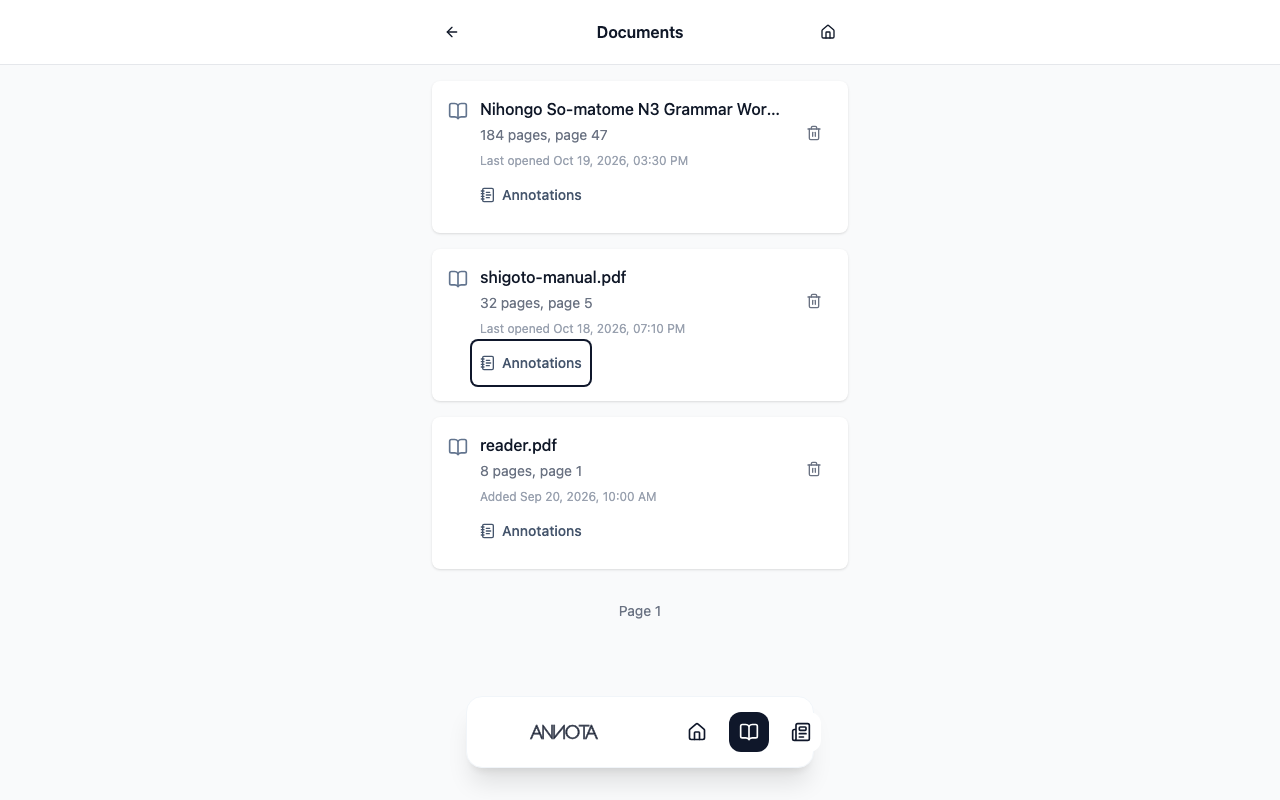
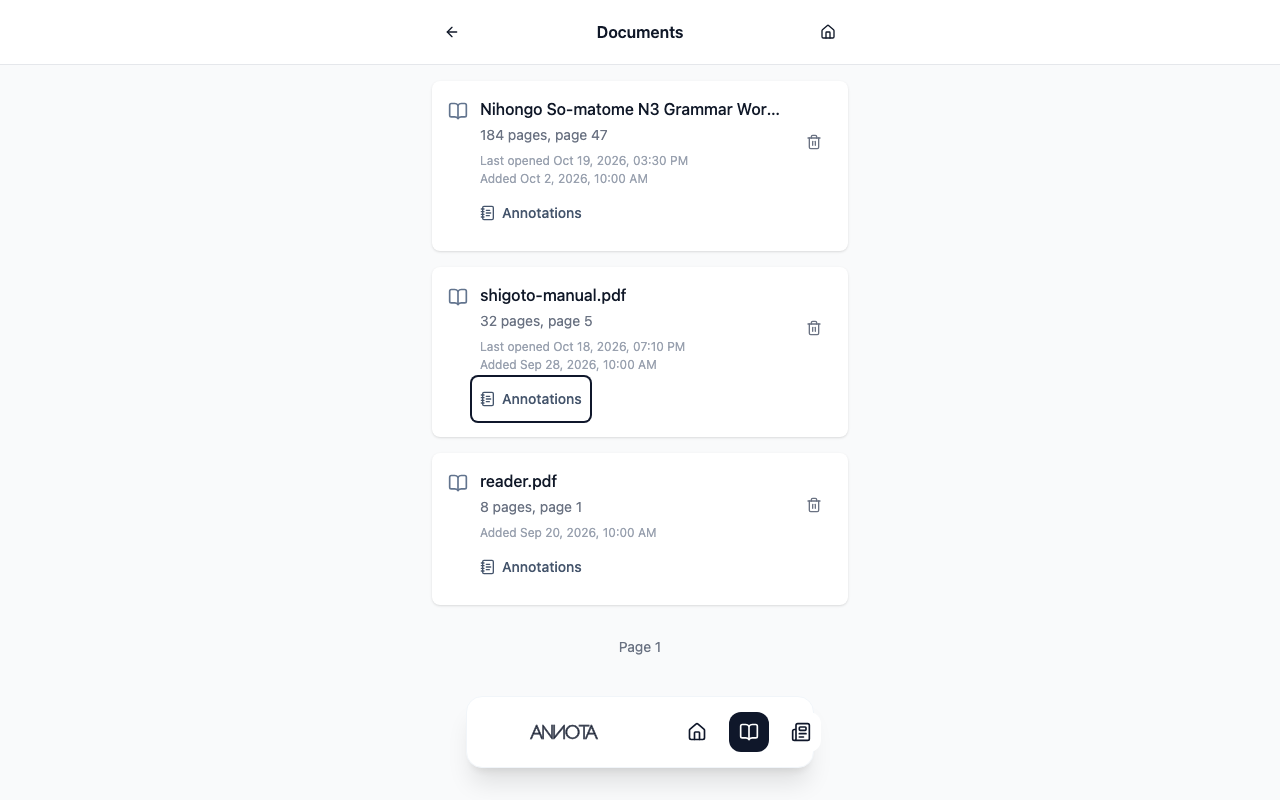
fix: show both created and last-opened dates in the library (#23)
Review R1 on PR #74: the library row showed last opened or created, never
both, so the PRD metadata item was not met. Record last_opened_at on open
as a #23 follow-up after #40 merges.

diff --git a/web/src/pages/DocumentsPage.tsx b/web/src/pages/DocumentsPage.tsx
@@ -88,8 +88,9 @@ export default function DocumentsPage() {
                       <span className="mt-1 block text-sm text-gray-500">
                         {doc.pageCount} pages, page {doc.lastPageNumber || 1}
                       </span>
-                      <span className="mt-2 block text-xs text-gray-400">
-                        {doc.lastOpenedAt ? `Last opened ${formatDate(doc.lastOpenedAt)}` : `Added ${formatDate(doc.createdAt)}`}
+                      <span className="mt-2 block space-y-0.5 text-xs text-gray-400">
+                        {doc.lastOpenedAt && <span className="block">Last opened {formatDate(doc.lastOpenedAt)}</span>}
+                        <span className="block">Added {formatDate(doc.createdAt)}</span>
                       </span>
                     </span>
                   </button>

diff --git a/web/src/pages/__tests__/DocumentsPage.test.tsx b/web/src/pages/__tests__/DocumentsPage.test.tsx
@@ -21,6 +21,7 @@ vi.mock('@/hooks/useDocument', () => ({
           filename: 'reader.pdf',
           pageCount: 8,
           lastPageNumber: 3,
+          lastOpenedAt: '2026-02-10T00:00:00Z',
           createdAt: '2026-02-09T00:00:00Z',
           updatedAt: '2026-02-09T00:00:00Z',
         },
@@ -44,6 +45,8 @@ describe('DocumentsPage', () => {
     expect(screen.getByText('Documents')).toBeInTheDocument()
     expect(screen.getByText('reader.pdf')).toBeInTheDocument()
     expect(screen.getByText('8 pages, page 3')).toBeInTheDocument()
+    expect(screen.getByText(/^Last opened /)).toBeInTheDocument()
+    expect(screen.getByText(/^Added /)).toBeInTheDocument()
   })
 
   it('links each document to its saved annotations', () => {

diff --git a/docs/superpowers/plans/2026-10-20-issue-23-prd-document-memory.md b/docs/superpowers/plans/2026-10-20-issue-23-prd-document-memory.md
@@ -18,9 +18,9 @@ As a learner reading a Japanese PDF I want three things. First, to return to the
 | Slice item / PRD bullet | Evidence | Status |
 | --- | --- | --- |
 | Scan lifecycle `status` / `sourceType` / `failureReason` | Migration `backend/migrations/003_prd_reader_memory.sql` (columns, backfill, `idx_scans_user_status`). `handlers/scan.go` sets `processing` on create (L155) and `failed` plus a reason on OCR failure (L485). `statusOrDefault`/`sourceTypeOrDefault` apply in list and detail. The web polls on status. | Met. Stale-`processing` recovery is #40 (read-time `ocr_interrupted`). |
-| Document library list with metadata (filename, pages, last opened, created) | `GET /v1/documents` (`handlers/document.go` `listDocumentsHandler`); `web/src/pages/DocumentsPage.tsx`. Tests: `TestListDocumentsSuccess`, `DocumentsPage.test.tsx`. | Met |
+| Document library list with metadata (filename, pages, last opened, created) | `GET /v1/documents` (`handlers/document.go` `listDocumentsHandler`); `web/src/pages/DocumentsPage.tsx`. Tests: `TestListDocumentsSuccess`, `DocumentsPage.test.tsx`. | Met after this PR. Before it, the row showed last opened *or* created, never both (PR #74 review R1). |
 | Continue reading from the last page | `PATCH /v1/documents/{id}/progress` (`updateDocumentProgressHandler`, storage `UpdateDocumentProgress`). `DocumentsPage` opens `?page=lastPageNumber`; `DocumentPage` `initialPage` falls back to `lastPageNumber` and saves progress on page change. Test: `TestUpdateDocumentProgressSuccess`. | Met |
-| Last opened time | `last_opened_at` is written only by the progress PATCH, and `DocumentPage.scheduleProgressSave` skips an unchanged page. Opening a document without changing page therefore does not update it. | **Gap, owned by #40** (`DocumentPage`/`document.go`); handed off |
+| Last opened time | `last_opened_at` is written only by the progress PATCH, and `DocumentPage.scheduleProgressSave` skips an unchanged page. Opening a document without changing page therefore does not update it. | **Gap, owned by #23.** Minimal follow-up after #40 merges (#40 declined it). `DocumentPage`/`document.go` are not edited while #40 is active. |
 | Delete documents / annotations | `DELETE /v1/documents/{id}` (file first, then the doc and its page scans, atomically; annotations kept, per #41). `DELETE /v1/annotations/{id}`. UI in `DocumentsPage`, `HistoryPage` and `AnnotationDetailPage`. Tests: `TestDeleteDocumentSuccess`, `TestDocumentDeleteRemovesFileThenPageScansAndRetries`, `TestCrossAccountRequestsCannotReadOrChangeOwnerData`. | Met |
 | Page-aware source metadata (doc ID, page, selected text, context, created) | `CreateAnnotationAPI` derives `source_type`/`document_id`/`page_number`/`source_label` from the owned scan (`handlers/annotation.go` L138-176, `buildSourceLabel`). `annotations` columns come from migration 003. | Met server-side. Correctness depends on the client sending the scan of the selected page: `DocumentPage` reuses `bridgeScanId` across pages. **#40 dependency** (page identity) |
 | View annotations scoped to a document/page | `GET /v1/annotations?documentId=&pageNumber=` (`GetAnnotationsByUserIDAndDocumentPage`). `HistoryPage` reads `documentId`/`pageNumber` (test: "Annotations for document #9, page 3"). | **Gap (#23): no UI entry point.** Nothing links to `/history?documentId=`. |
@@ -35,7 +35,8 @@ As a learner reading a Japanese PDF I want three things. First, to return to the
    - Accessible name: "View annotations for {filename}".
    - Touch target of at least 44px, with a visible focus ring.
    - It is a separate control next to Open and Delete.
-2. **`web/src/pages/__tests__/DocumentsPage.test.tsx`:** assert the link's accessible name and its `href`.
+2. **`web/src/pages/__tests__/DocumentsPage.test.tsx`:** assert the link's accessible name and its `href`, and that the last-opened and created dates both render.
+   - The dates come from `DocumentsPage`, which now shows "Added" always and "Last opened" when set (review R1).
 3. **`backend/internal/handlers/analyze_context_test.go` (new, test only):** one focused test.
    - The question: when analyze gets a `scanId`, does the AI client receive the server-stored scan text, windowed to 12k runes and containing the selection, instead of the client `context`?
    - Why it matters: if it fails, the slice item is unmet and `ai.go` needs a fix.
@@ -59,10 +60,11 @@ Files are deliberately limited to these three. Not touched: `HistoryPage`, `Docu
 
 ## Dependencies and observations (not fixed here)
 
-- **#40 dependencies:**
+- **#40 dependencies (accepted by #40):**
   - `bridgeScanId` page identity, needed for page-aware source correctness.
   - Regenerate passing `scanId`.
-  - `last_opened_at` updating on open.
+- **#23 follow-up after #40 merges:** `last_opened_at` updating on open.
+- **Remaining #40-owned items:**
   - Stale `processing` recovery.
   - Duplicate page scans.
 - **Observation (nonblocking):** `POST /v1/ai/analyze` with a foreign `scanId` returns 403, while `GET /v1/scans/{id}` returns 404. This is recorded only; no #41 follow-up and no change to error semantics.
